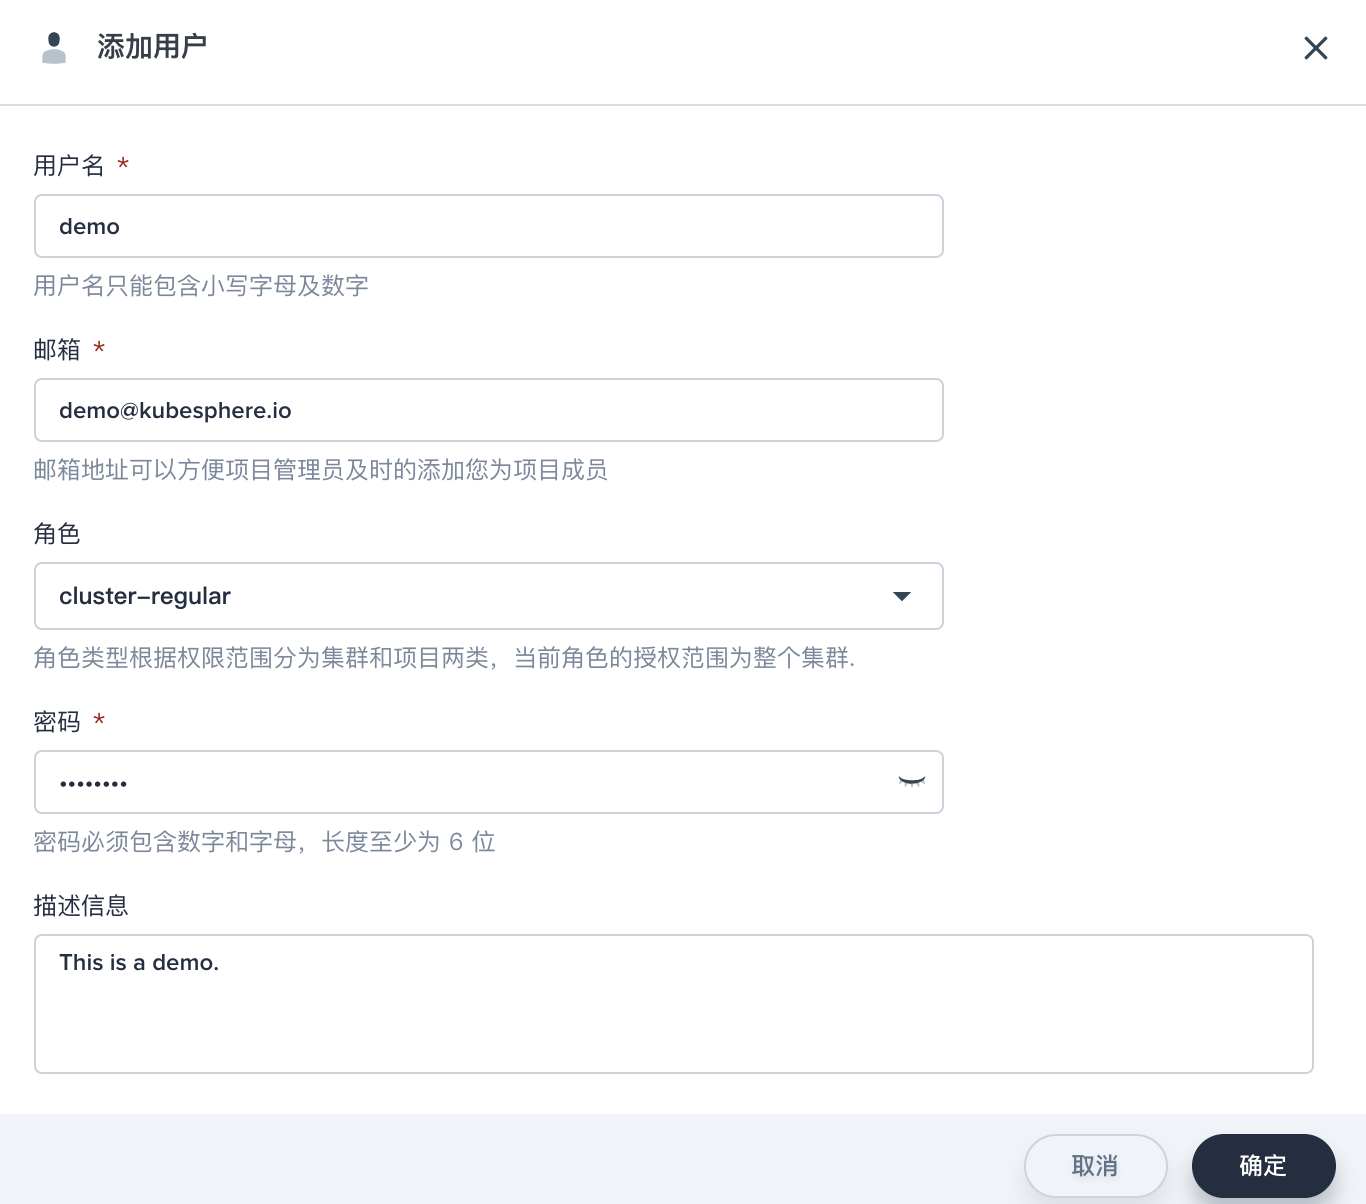
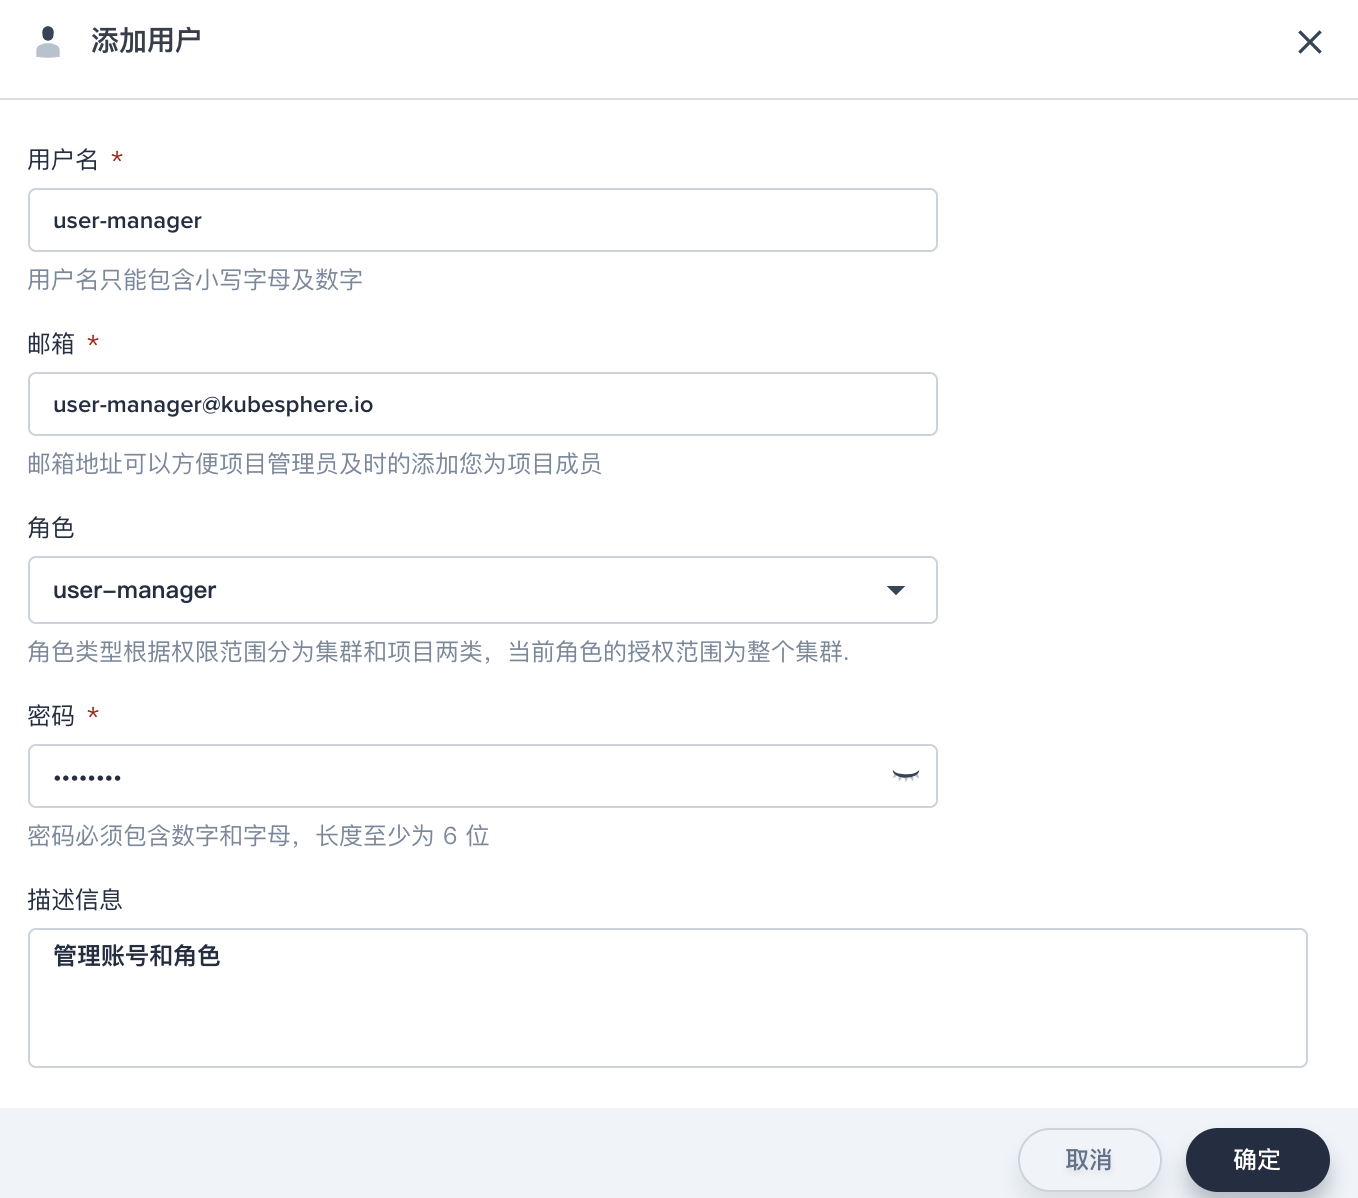
update jenkinsfile in scm guide

diff --git a/content/advanced-v1.0.0/zh-CN/quick-start/jenkinsfile-in-scm.md b/content/advanced-v1.0.0/zh-CN/quick-start/jenkinsfile-in-scm.md
@@ -32,6 +32,37 @@ Jenkinsfile in SCM 意为将 Jenkinsfile 文件本身作为源代码管理 (Sour
   <source type="video/mp4" src="https://kubesphere-docs.pek3b.qingstor.com/video/jenkinsfile-in-scm.mp4">
 </video>
 
+## 创建凭证
+
+进入已创建的 DevOps 工程，开始创建凭证。本示例代码仓库中的 Jenkinsfile 需要用到 DockerHub、GitHub 和 Kubernetes (KubeConfig 用于访问接入正在运行的 Kubernetes 集群) 等一共 3 个凭证 (credentials) ，这 3 个凭证 ID 需要与 Jenkinsfile 中前三个环境变量的值一致，先依次创建这三个凭证。
+
+### 第一步：创建 DockerHub 凭证
+
+1、进入已创建的 DevOps 工程，在左侧的工程管理菜单下。点击 `凭证管理`，进入凭证管理界面，界面会展示当前工程所需的所有可用凭证。
+
+![credential_page](/devops_credentials.png)
+
+2、点击创建按钮，创建一个用于 DockerHub 登录的凭证。
+
+- 凭证 ID：必填，此 ID 将用于仓库中的 Jenkinsfile，此处命名为 **dockerhub-id**
+- 类型：选择 **账户凭证**
+- 用户名/密码：输入您个人的 DockerHub 用户名和密码
+- 描述信息：介绍凭证，比如此处可以备注为 DockerHub 登录凭证
+
+![Dockerhub 凭证](/dockerhub-credential.png)
+
+### 第二步：创建 GitHub 凭证
+
+同上，创建一个用于 GitHub 的凭证，凭证 ID 命名为 **github-id**，类型选择 **账户凭证**，输入您个人的 GitHub 用户名和密码，备注描述信息。
+
+### 第三步：创建 kubeconfig 凭证
+
+创建一个类型为 **kubeconfig** 的凭证，凭证 ID 命名为 **demo-kubeconfig**，用于访问接入正在运行的 Kubernetes 集群，在流水线部署步骤将用到该凭证。注意，此处的 Content 将自动获取当前 KubeSphere 中的 kubeconfig 文件内容，若部署至当前 KubeSphere 中则无需修改，若部署至其它 Kubernetes 集群，则需要将其 kubeconfig 文件的内容粘贴至 Content 中。
+
+至此，3 个凭证已经创建完成，下一步需要在示例仓库中修改对应的三个凭证 ID 为用户自己创建的凭证 ID。
+
+![凭证列表](/credential-list-demo.png)
+
 ## 修改 Jenkinsfile
 
 ### 第一步：Fork 项目
@@ -49,11 +80,11 @@ Fork 至您个人的 GitHub 后，在 **根目录** 进入 **Jenkinsfile**，在
 
 |修改项|值|含义|
 |---|---|---|
-|DOCKERHUB\_CREDENTIAL\_ID|dockerhub-id|上一步创建的 DockerHub 凭证 ID|
-|GITHUB\_CREDENTIAL\_ID|github-id|上一步创建的 GitHub 凭证 ID|
+|DOCKERHUB\_CREDENTIAL\_ID|dockerhub-id|填写创建凭证步骤中的 DockerHub 凭证 ID，用于登录您的 DockerHub|
+|GITHUB\_CREDENTIAL\_ID|github-id|填写创建凭证步骤中的 GitHub 凭证 ID，用于推送 tag 到 GitHub 仓库|
 |KUBECONFIG\_CREDENTIAL\_ID|demo-kubeconfig| KubeConfig 凭证 ID，用于访问接入正在运行的 Kubernetes 集群 |
-|DOCKERHUB_NAMESPACE|your-dockerhub-account| 替换为您的 DockerHub 账号名 |
-|GITHUB_ACCOUNT|your-github-account | 替换为您的 GitHub 账号名 |
+|DOCKERHUB_NAMESPACE|your-dockerhub-account| 替换为您的 DockerHub 账号名 <br> (它也可以是账户下的 Organization 名称)|
+|GITHUB_ACCOUNT|your-github-account | 替换为您的 GitHub 账号名 <br> (它也可以是账户下的 Organization 名称) |
 |APP_NAME|devops-docs-sample |应用名称|
 
 ```bash
@@ -94,37 +125,6 @@ CI/CD 流水线会根据文档网站项目的 [yaml 模板文件](https://github
 同上，参考上一步创建一个名称为 `kubesphere-docs-prod` 的项目，作为生产环境。
 
 > 说明：当 CI/CD 流水线后续执行成功后，在 `kubesphere-docs-dev` 和 `kubesphere-docs-prod` 项目中将看到流水线创建的部署 (Deployment)和服务 (Service)。
-
-## 创建凭证
-
-进入已创建的 DevOps 工程，开始创建凭证。本示例代码仓库中的 Jenkinsfile 需要用到 DockerHub、GitHub 和 Kubernetes (KubeConfig 用于访问接入正在运行的 Kubernetes 集群) 等一共 3 个凭证 (credentials) ，这 3 个凭证 ID 需要与 Jenkinsfile 中前三个环境变量的值一致，先依次创建这三个凭证。
-
-### 第一步：创建 DockerHub 凭证
-
-1、在左侧的工程管理菜单下。点击 `凭证管理`，进入凭证管理界面，界面会展示当前工程所需的所有可用凭证。
-
-![credential_page](/devops_credentials.png)
-
-2、点击创建按钮，创建一个用于 DockerHub 登录的凭证。
-
-- 凭证 ID：必填，此 ID 将用于仓库中的 Jenkinsfile，此处命名为 **dockerhub-id**
-- 类型：选择 **账户凭证**
-- 用户名/密码：输入您个人的 DockerHub 用户名和密码
-- 描述信息：介绍凭证，比如此处可以备注为 DockerHub 登录凭证
-
-![Dockerhub 凭证](/dockerhub-credential.png)
-
-### 第二步：创建 GitHub 凭证
-
-同上，创建一个用于 GitHub 的凭证，凭证 ID 命名为 **github-id**，类型选择 **账户凭证**，输入您个人的 GitHub 用户名和密码，备注描述信息。
-
-### 第三步：创建 kubeconfig 凭证
-
-创建一个类型为 **kubeconfig** 的凭证，凭证 ID 命名为 **demo-kubeconfig**，用于访问接入正在运行的 Kubernetes 集群，在流水线部署步骤将用到该凭证。注意，此处的 Content 将自动获取当前 KubeSphere 中的 kubeconfig 文件内容，若部署至当前 KubeSphere 中则无需修改，若部署至其它 Kubernetes 集群，则需要将其 kubeconfig 文件的内容粘贴至 Content 中。
-
-至此，3 个凭证已经创建完成，下一步需要在示例仓库中修改对应的三个凭证 ID 为用户自己创建的凭证 ID。
-
-![凭证列表](/credential-list-demo.png)
 
 ## 创建流水线
 

diff --git a/content/advanced-v1.0.0/zh-CN/quick-start/admin-quick-start.md b/content/advanced-v1.0.0/zh-CN/quick-start/admin-quick-start.md
@@ -4,7 +4,7 @@ title: "管理员快速入门"
 
 ## 目的
 
-本文档面向初次使用 KubeSphere 的集群管理员用户，引导新手用户创建企业空间、创建新的账户角色，然后通过新用户来创建项目和 DevOps 工程，帮助用户快速上手 KubeSphere。
+本文档面向初次使用 KubeSphere 的集群管理员用户，引导新手用户创建企业空间、创建新的角色和账户，然后通过新用户来创建项目和 DevOps 工程，帮助用户快速上手 KubeSphere。
 
 ## 前提条件
 
@@ -12,7 +12,7 @@ title: "管理员快速入门"
 
 ## 预估时间
 
-约 5 分钟。
+约 10 分钟。
 
 ## 操作示例
 
@@ -22,25 +22,59 @@ title: "管理员快速入门"
 
 ![资源概览](/admin-overview.png)
 
-### 第一步：创建账号
+### 集群用户管理
 
-平台中的 cluster-admin 角色可以为其他用户创建账号并分配平台角色，平台内置了 cluster-admin、cluster-regular 和 workspaces-manager 三个常用的角色，同时支持自定义新的角色。本示例以创建一个用户名为 `demo` 的 `cluster-regular` 角色为例，该角色是集群中的普通用户，在被邀请加入企业空间之前没有任何资源操作权限。后续示例的操作都将以 `demo` 用户登录进行操作。
+#### 第一步：创建角色和账号
 
-1.1. 点击控制台左上角 **平台管理 → 账号管理**，可以看到当前集群中所有用户的列表，支持通过用户名进行搜索，点击 **创建** 按钮。
+平台中的 cluster-admin 角色可以为其他用户创建账号并分配平台角色，平台内置了 cluster-admin、cluster-regular 和 workspaces-manager 三个常用的角色，同时支持自定义新的角色。
+
+本示例首先新建一个角色 (user-manager) 和一个账号，并给这个账号授予 user-manager 角色。然后用 user-manager 来创建两个角色为 workspace-manager 和 cluster-regular 的账号，workspace-manager 将创建一个企业空间并指定 cluster-regular 的用户为企业空间管理员。
+
+|账号名|集群角色|职责|
+|---|---|---|
+|user-manager|user-manager|管理集群的账户和角色|
+
+1.1. 点击控制台左上角 **平台管理 → 平台角色**，可以看到当前的角色列表，点击 **创建**，创建一个角色用于管理所有账户和角色。
+
+![创建角色](/admin-create-role.png)
+
+1.2. 填写角色的基本信息和权限设置。
+
+- 名称：起一个简洁明了的名称，便于用户浏览和搜索，如 `user-manager`
+- 描述信息：简单介绍该角色的职责，如 `管理账户和角色`
+
+![基本信息](/role-basic.png)
+
+1.3. 权限设置中，勾选账户管理和角色管理的所有权限，点击 **创建**。
+
+![权限列表](/authority-list.png)
+
+1.4. 点击控制台左上角 **平台管理 → 账号管理**，可以看到当前集群中所有用户的列表，点击 **创建** 按钮。
 
 ![创建账号](/account-list.png)
 
-1.2. 填写新用户的基本信息，角色选择 `cluster-regular`，其它信息可自定义。
+1.5. 填写新用户的基本信息，如用户名设置为 `user-manager`，角色选择 `user-manager`，其它信息可自定义，点击 **创建**。
 
 > 说明：上述步骤仅简单地说明创建流程，关于账号管理与角色权限管理的详细说明，请参考 [角色权限概览](../../multi-tenant/role-overview) 和 [账号管理](../../platform-management/account-management)。
 
 ![添加用户](/demo-account.png)
 
+1.6. 切换成上一步创建的 `user-manager` 账号登录 KubeSphere，在 **账号管理** 下，新建两个角色为 workspace-manager 和 cluster-regular 的账号，步骤同上，参考如下信息创建。
+
+|账号名|集群角色|企业空间角色|职责|
+|---|---|---|---|
+|ws-manager|workspaces-manager|默认 workspace-admin|创建和管理企业空间|
+|ws-admin|cluster-regular|workspace-admin|管理企业空间下所有的资源|
+
+1.7. 查看新建的两个账号信息：
+
+![查看账号列表](/user-manager-list.png)
+
 ### 第二步：创建企业空间
 
-企业空间 (workspace) 是 KubeSphere 实现多租户模式的基础，是用户管理项目、DevOps 工程和企业成员的基本单位。因此，账号创建成功后，下一步需要创建企业空间。
+企业空间 (workspace) 是 KubeSphere 实现多租户模式的基础，是用户管理项目、DevOps 工程和企业成员的基本单位。因此，上一步的两个账号创建成功后，则需要 workspaces-manager 创建企业空间并指定 ws-admin 为企业空间的管理员。
 
-2.1. 点击控制台左上角 **平台管理 → 企业空间**，可以看到当前集群中所有企业空间的列表，新安装的环境只有 **system-workspace** 一个系统默认的企业空间，用于运行 KubeSphere 平台相关组件和服务，禁止删除该企业空间。在右侧点击 **创建** 按钮，企业空间的创建者同时默认为它的管理员 (workspace-admin)，拥有企业空间的最高管理权限。
+2.1. 切换为 ws-manager 登录 KubeSphere，点击控制台左上角 **平台管理 → 企业空间**，可以看到当前集群中所有企业空间的列表，新安装的环境只有 **system-workspace** 一个系统默认的企业空间，用于运行 KubeSphere 平台相关组件和服务，禁止删除该企业空间。在右侧点击 **创建** 按钮，企业空间的创建者同时默认为它的管理员 (workspace-admin)，拥有企业空间的最高管理权限。
 
 ![企业空间列表](/how-to-create-workspace.png)
 
